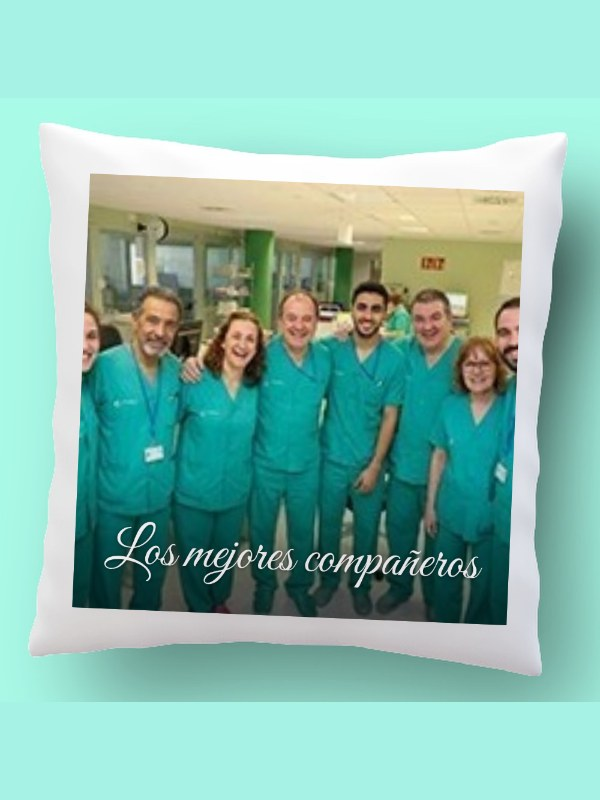
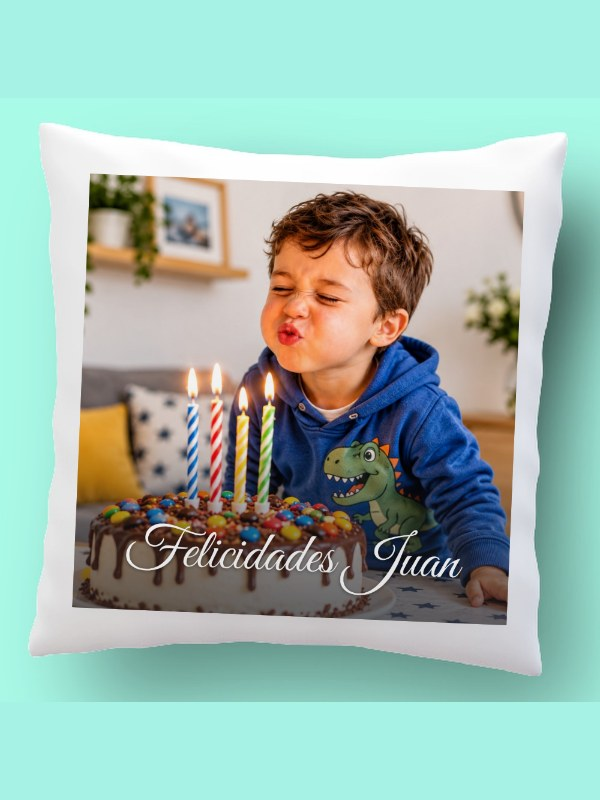
Cojín de una foto: ejemplo nuevo (niño con tarta) y texto «Felicidades Juan»
Claude-Session: https://claude.ai/code/session_014LaVcs7QACvCHdKPm98Axt

diff --git a/cojin-fotos.html b/cojin-fotos.html
@@ -114,8 +114,8 @@ const LOGO='<a class="brand" href="./" aria-label="Ir al inicio"><img src="logo/
 const cab='<div class="top">'+LOGO+'<a class="back" href="./#productos">'+ICO_BACK+'Productos</a></div>';
 const PRECIO=F.PRECIO;
 const PPP_BIEN=F.TRAMOS[1], PPP_MAL=F.TRAMOS[2];   // tramos del cojín (fotocojin.js)
-const TEXTO_DEF={una:"Los mejores compañeros", collage:"Los mejores\ncompañeros"};
-const EJEMPLOS=[1,2,3,4,5,6,7,8].map(n=>"disenos/cojin_fotos/ejemplo"+n+".jpg");
+const TEXTO_DEF={una:"Felicidades Juan", collage:"Los mejores\ncompañeros"};
+const EJEMPLOS=[1,2,3,4,5,6,7,8].map(n=>"disenos/cojin_fotos/ejemplo"+n+".jpg").concat("disenos/cojin_fotos/ejemplo_una.jpg");
 
 function deLista(){ try{ return JSON.parse(localStorage.getItem("ql_lista")||"null"); }catch(e){ return null; } }
 const l=deLista()||{};
@@ -153,7 +153,7 @@ function vForm(){ return S.paso==="datos"?vDatos():vDiseno(); }
 function vDiseno(){
   const m=M(), n=hs().length, puestas=fotosAct().filter(Boolean).length;
   const modelos='<section class="card"><h2>1. Elige el modelo</h2><div class="mods">'+Object.values(F.MODELOS).map(x=>
-    '<div class="modw"><button type="button" class="mod" data-mod="'+x.id+'" aria-pressed="'+(S.modelo===x.id)+'"><img src="disenos/cojin_fotos/mini_'+x.id+'.jpg?v=1" alt="" width="300" height="300"><b>'+esc(x.nombre)+'</b><span>'+esc(x.desc)+'</span></button>'+QLVisor.lupa('data-ver="'+x.id+'"',x.nombre)+'</div>').join("")+
+    '<div class="modw"><button type="button" class="mod" data-mod="'+x.id+'" aria-pressed="'+(S.modelo===x.id)+'"><img src="disenos/cojin_fotos/mini_'+x.id+'.jpg?v=2" alt="" width="300" height="300"><b>'+esc(x.nombre)+'</b><span>'+esc(x.desc)+'</span></button>'+QLVisor.lupa('data-ver="'+x.id+'"',x.nombre)+'</div>').join("")+
     '</div><p class="small">Las fotos de los ejemplos son de muestra: irán las tuyas. Toca la lupa para verlo en grande.</p></section>';
   let rej;
   if(S.modelo==="una") rej='<div class="huecos una">'+hueco(0)+'</div>';
@@ -257,7 +257,7 @@ function verGrande(id){
   const items=L.map(x=>{ const c={modelo:x.id, conTexto:x.id==="collage"?S.conTexto:true, texto:S.textos[x.id], fuente:S.fuente[x.id], color:S.color[x.id], degradado:x.id==="una"?Object.assign({},S.deg):undefined};
     return {nombre:x.nombre, clave:JSON.stringify(c)+S.vista, crear:async()=>{
       if(!ejemplos) ejemplos=Promise.all(EJEMPLOS.map(cargarImg)).catch(e=>{ ejemplos=null; throw e; });
-      const ej=await ejemplos, n=F.nFotos(c.modelo,c.conTexto), imgs=x.id==="una"?[ej[1]]:Array.from({length:n},(_,i)=>ej[i%ej.length]);
+      const ej=await ejemplos, n=F.nFotos(c.modelo,c.conTexto), imgs=x.id==="una"?[ej[8]]:Array.from({length:n},(_,i)=>ej[i%8]);
       await F.cargarFuentes();
       const pl=document.createElement("canvas");
       if(S.vista==="cojin"&&S.mk){ F.dibujar(pl,c,imgs,1000,true); const cv=document.createElement("canvas"); F.dibujarMockup(cv,pl,S.mk); return QLVisor.marca(cv); }

diff --git a/index.html b/index.html
@@ -201,7 +201,7 @@ footer small{display:block;margin-top:14px;opacity:.92}
           </div>
         </article>
         <article class="prod">
-          <div class="foto alto rota"><img class="on" src="img/ejemplo-cojin-fotos-collage.jpg?v=1" alt="Cojín con un collage de fotos y un texto en el centro" loading="lazy" style="object-fit:cover;padding:0"><img src="img/ejemplo-cojin-fotos-una.jpg?v=1" alt="Cojín con una foto grande y un texto abajo" loading="lazy" style="object-fit:cover;padding:0"><span class="etq ok">Nuevo</span></div>
+          <div class="foto alto rota"><img class="on" src="img/ejemplo-cojin-fotos-collage.jpg?v=1" alt="Cojín con un collage de fotos y un texto en el centro" loading="lazy" style="object-fit:cover;padding:0"><img src="img/ejemplo-cojin-fotos-una.jpg?v=2" alt="Cojín con una foto grande y un texto abajo" loading="lazy" style="object-fit:cover;padding:0"><span class="etq ok">Nuevo</span></div>
           <div class="cuerpo">
             <h3>Cojín con tus fotos</h3>
             <p>Tus fotos y tu texto en un cojín blanco de 40 × 40 cm. Una foto grande o un collage de 8 o 9 fotos.</p>
